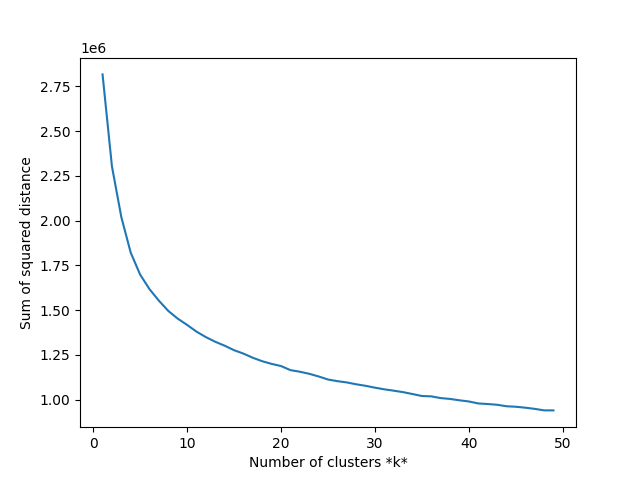
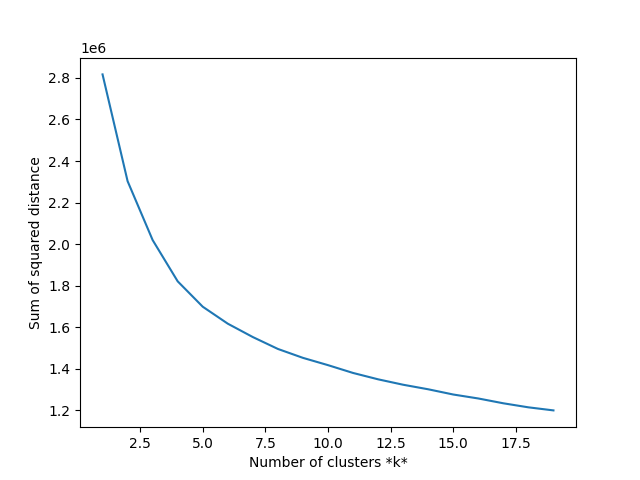
new file:   prototype/2_cluster_plot.png 	modified:   prototype/Figure_1.png 	modified:   prototype/clustering.py 	new file:   prototype/imagemap.png

diff --git a/prototype/clustering.py b/prototype/clustering.py
@@ -1,3 +1,4 @@
+#There's alot of installed modules for this, you will need to grab them to get this to run
 # for loading/processing the images  
 from keras.preprocessing.image import load_img 
 from keras.preprocessing.image import img_to_array 
@@ -10,8 +11,10 @@ from keras.models import Model
 # clustering and dimension reduction
 from sklearn.cluster import KMeans
 from sklearn.decomposition import PCA
-
+from sklearn.manifold import TSNE
+#import hdbscan
 # for everything else
+import copy
 import os
 import numpy as np
 import matplotlib.pyplot as plt
@@ -71,22 +74,70 @@ pca.fit(feat)
 x = pca.transform(feat)
 
 # cluster feature vectors
-kmeans = KMeans(n_clusters=2,random_state=22) #as there should only be 2 clusters
+k=2
+kmeans = KMeans(n_clusters=k,random_state=22) #as there should only be 2 clusters
 kmeans.fit(x)
 # holds the cluster id and the images { id: [images] }
 groups = {}
+y=copy.deepcopy(x)
+c=kmeans.cluster_centers_
+y=np.append(y,c,axis=0)
+projection=TSNE().fit_transform(y)
 emergency_counts=[0,0]
 religious_counts=[0,0]
+col=[]
+edge=[]
+lab=[]
+label=[]
 for file, cluster in zip(filenames,kmeans.labels_):
     if emergency==os.path.dirname(file):
         emergency_counts[cluster]+=1
+        col.append('g')
+        lab.append('Emergency')
+        if cluster==1:
+            edge.append('m')
+            label.append('Cluster 1')
+        else:
+            edge.append('y')
+            label.append('Cluster 0')
     elif religious==os.path.dirname(file):
         religious_counts[cluster]+=1
+        col.append('b')
+        lab.append('Religious')
+        if cluster==1:
+            edge.append('m')
+            label.append('Cluster 1')
+        else:
+            edge.append('y')
+            label.append('Cluster 0')
     if cluster not in groups.keys():
         groups[cluster] = []
         groups[cluster].append(file)
     else:
         groups[cluster].append(file)
+for l in range(k):
+    col.append('r')
+    lab.append('cluster center')
+    label.append('cluster center')
+    edge.append('r')
+visited=set()
+for loc,c,lb in zip(projection,col,lab):
+    if lb not in visited:
+        visited.add(lb)
+        plt.scatter(*loc,c=c,label=lb)
+    else:
+        plt.scatter(*loc,c=c)
+plt.legend()
+plt.show()
+visited=set()
+for loc,c,lb in zip(projection,edge,label):
+    if lb not in visited:
+        visited.add(lb)
+        plt.scatter(*loc,c=c,label=lb)
+    else:
+        plt.scatter(*loc,c=c)
+plt.legend()
+plt.show()
 print("emergency:"+str(emergency_counts))
 print("religious:"+str(religious_counts))
 # function that lets you view a cluster (based on identifier)        
@@ -105,11 +156,9 @@ def view_cluster(cluster):
         img = np.array(img)
         plt.imshow(img)
         plt.axis('off')
-        
-   
 # this is just incase you want to see which value for k might be the best 
 sse = []
-list_k = list(range(1, 50))
+list_k = list(range(1, 20))
 
 for k in list_k:
     km = KMeans(n_clusters=k, random_state=22)
@@ -123,3 +172,5 @@ plt.plot(list_k, sse)
 plt.xlabel(r'Number of clusters *k*')
 plt.ylabel('Sum of squared distance');
 plt.show()
+#HDBSCAN coded below here
+
